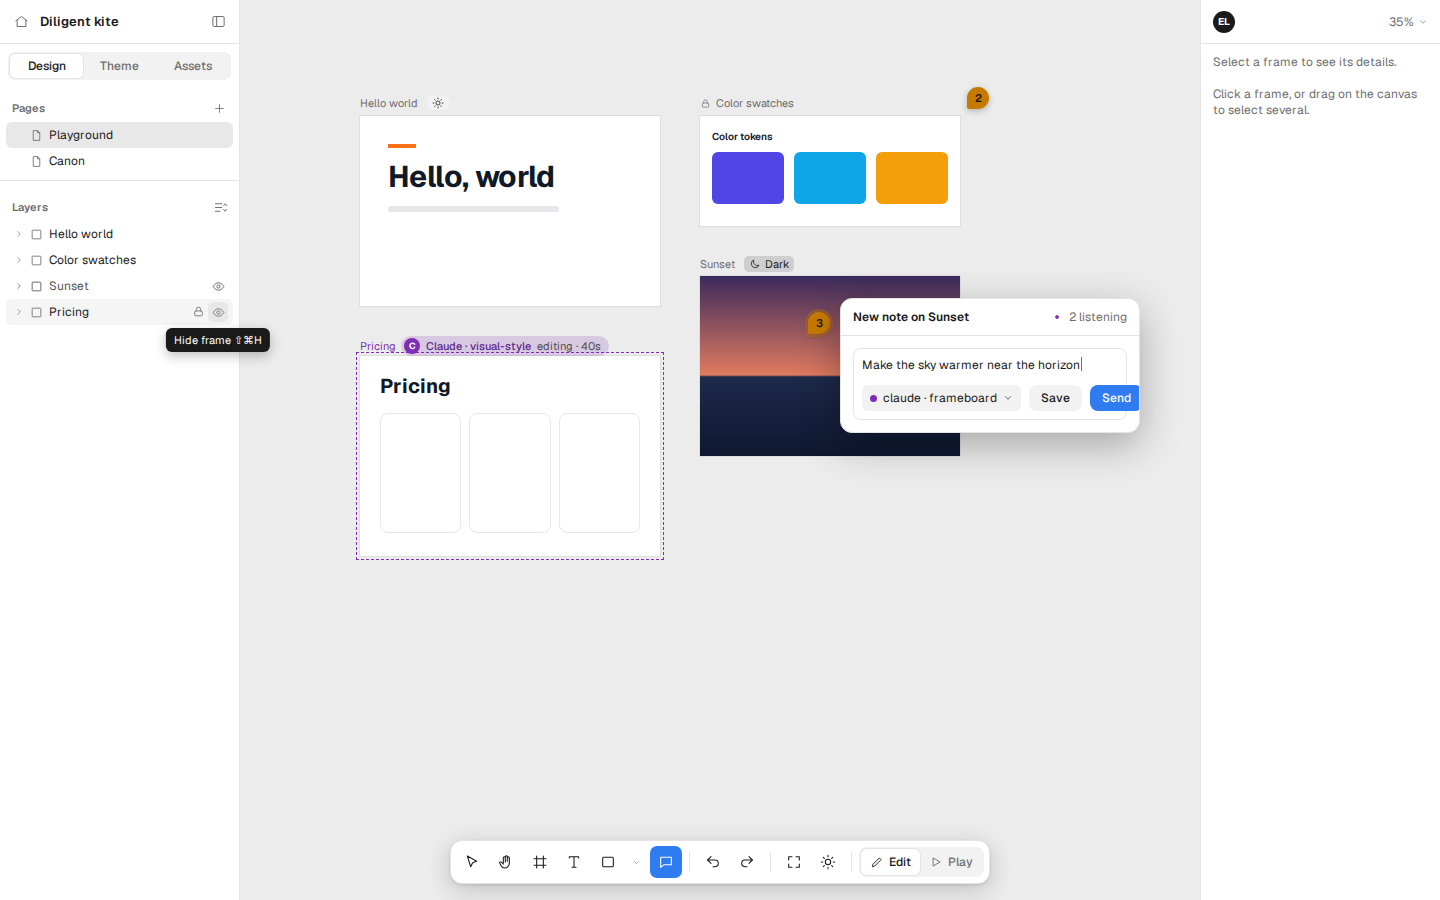
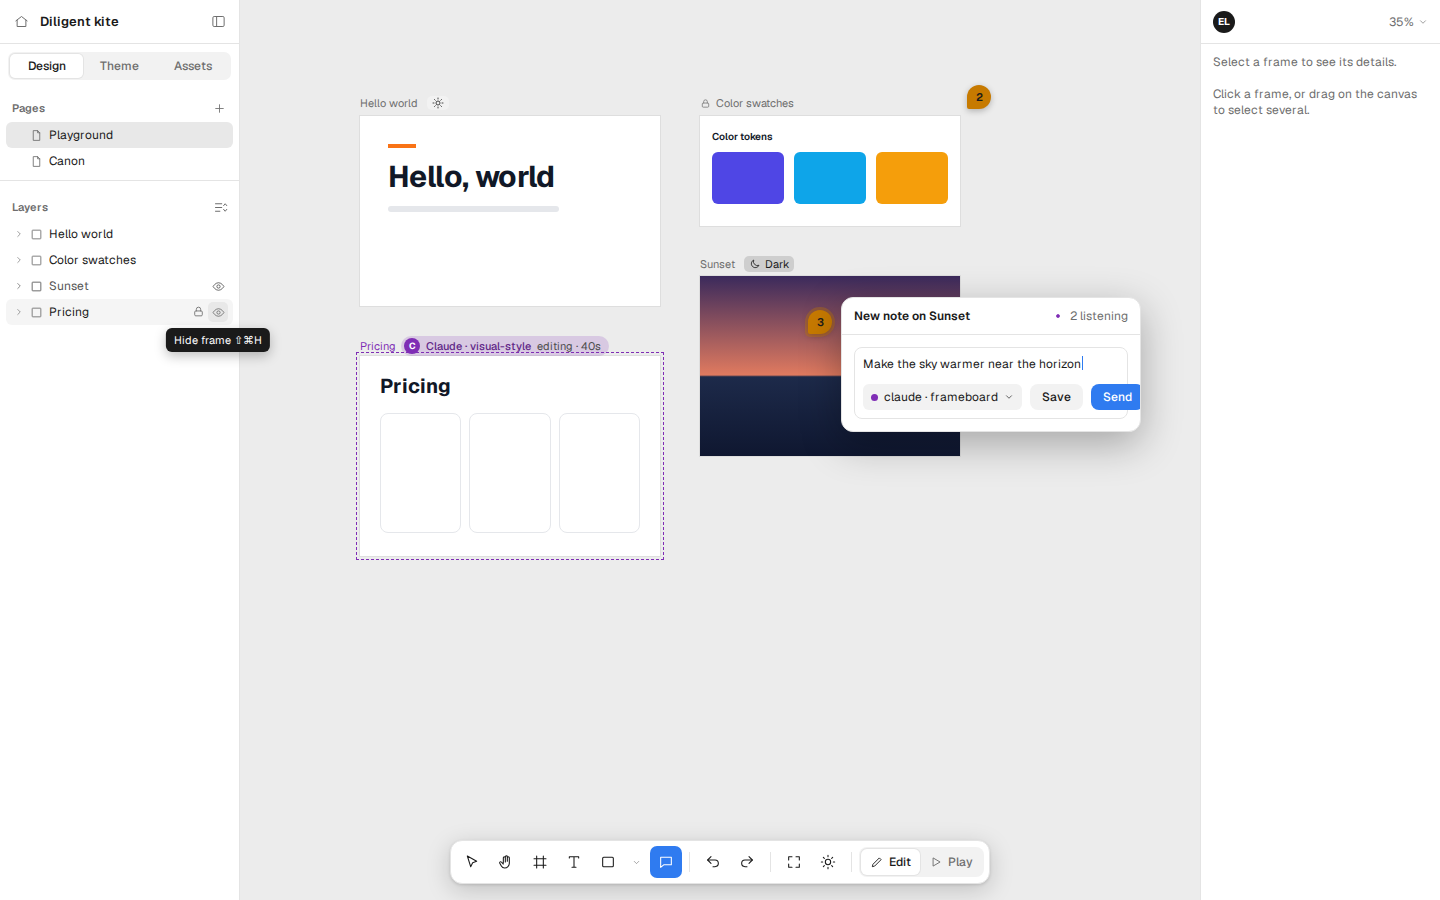
docs(design): redraw note pins at 24px

Changed region(s): [[0.5625, 0.3422, 0.7812, 0.4667], [0.6562, 0.0933, 0.6875, 0.1244]]

diff --git a/canon/design/notes/place.html b/canon/design/notes/place.html
@@ -491,9 +491,9 @@
       }
       .pin {
         position: absolute;
-        width: 22px;
-        height: 22px;
-        border-radius: 11px 11px 11px 2px;
+        width: 24px;
+        height: 24px;
+        border-radius: 12px 12px 12px 2px;
         background: var(--note);
         color: #1a1a1a;
         font-size: 11px;
@@ -1662,7 +1662,7 @@
             </div>
           </div>
         </div>
-        <div class="pin" style="left: 727px; top: 87px">2</div>
+        <div class="pin" style="left: 727px; top: 85px">2</div>
         <div class="flabel claim" style="left: 120px; top: 336px">
           Pricing
           <span class="atag"
@@ -1957,8 +1957,8 @@
         </button></span
       >
     </div>
-    <div class="pin newpin" style="left: 808px; top: 312px">3</div>
-    <div class="thread" style="left: 840px; top: 298px; width: 300px">
+    <div class="pin newpin" style="left: 808px; top: 310px">3</div>
+    <div class="thread" style="left: 841px; top: 297px; width: 300px">
       <div class="thtop">
         New note on Sunset<span class="on"
           ><svg
